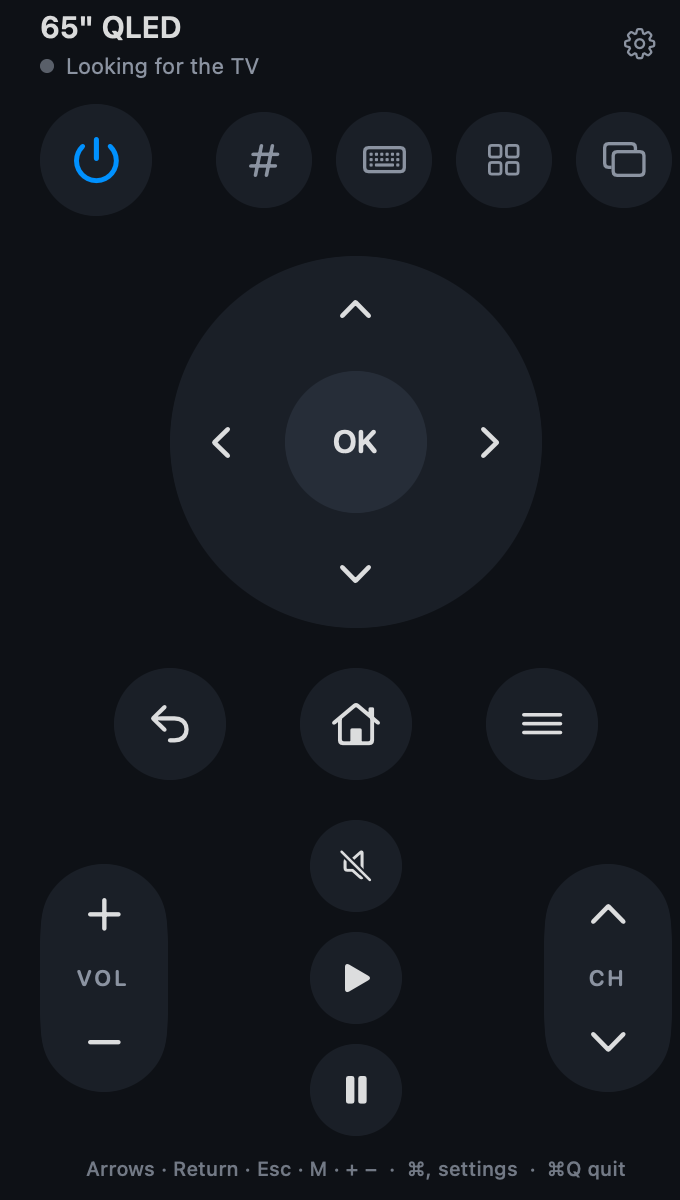
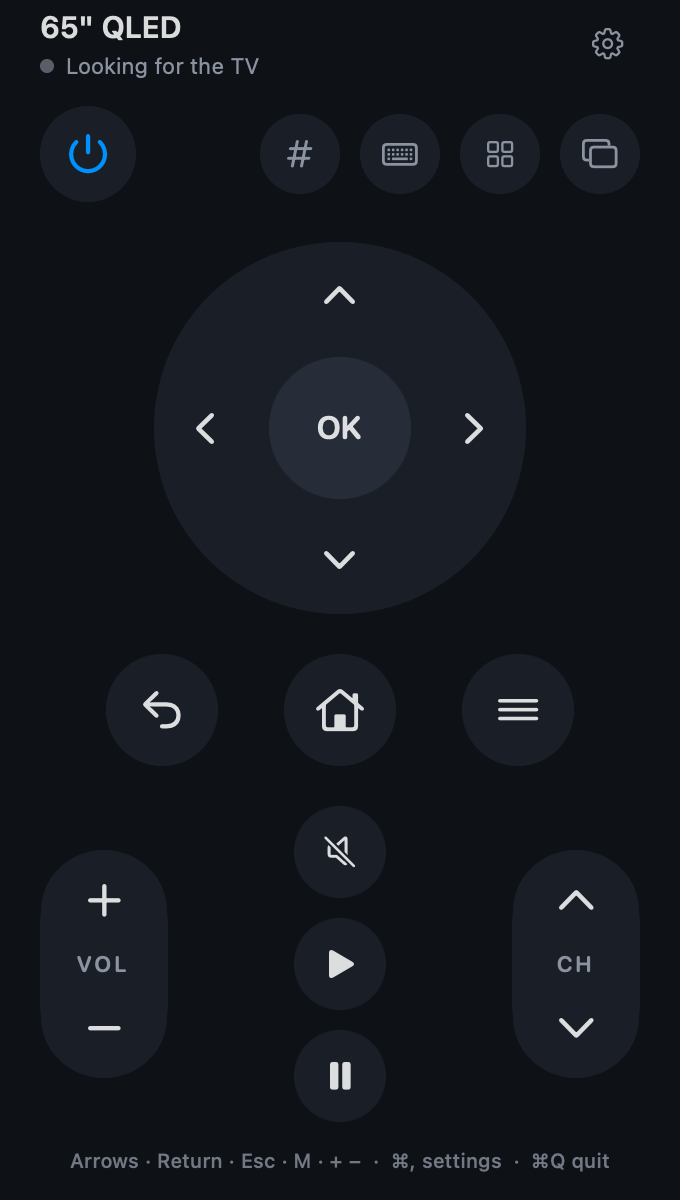
Fit the Mac remote's top row inside the menu bar popover
The popover is 340 pt wide. The top row's five buttons needed 308 pt
plus spacing, more than the 300 pt left after the side padding, so the
whole column grew past the window, shifted right and clipped the Source
button and the channel rocker. On the Mac the top row now uses smaller
buttons and tighter spacing, which takes 258 pt. The column also gets
exactly the window's width, so anything too wide would stay centered.

Checked by measuring renders: every row has equal left and right
margins on the Mac (20 pt), and the iPhone layout is unchanged (24 pt).

diff --git a/Clicker/UI/RemoteView.swift b/Clicker/UI/RemoteView.swift
@@ -26,10 +26,20 @@ struct RemoteView: View {
         }
     }
 
+    /// Button sizes per platform. The Mac popover is narrower than a phone, and the top row has five
+    /// buttons, so on the Mac they are smaller. Top row width = power + 4 x utility + 5 x spacing, which
+    /// must stay under the width minus both side paddings (Mac: 258 of 300 pt; iPhone SE: 308 of 327 pt).
+    private struct Metrics {
+        let sidePadding: CGFloat
+        let power: CGFloat
+        let utility: CGFloat
+        let topSpacing: CGFloat
+    }
+
     #if os(macOS)
-    private static let sidePadding: CGFloat = 20
+    private static let metrics = Metrics(sidePadding: 20, power: 48, utility: 40, topSpacing: 10)
     #else
-    private static let sidePadding: CGFloat = 24
+    private static let metrics = Metrics(sidePadding: 24, power: 56, utility: 48, topSpacing: 12)
     #endif
 
     var body: some View {
@@ -55,8 +65,8 @@ struct RemoteView: View {
                 #endif
                 Spacer(minLength: 8)
             }
-            .padding(.horizontal, Self.sidePadding)
-            .frame(maxWidth: .infinity, maxHeight: .infinity)
+            .padding(.horizontal, Self.metrics.sidePadding)
+            .frame(width: geometry.size.width, height: geometry.size.height)
         }
         .background(Theme.background.ignoresSafeArea())
         .panel(item: $sheet, title: \Sheet.title) { sheet in
@@ -189,13 +199,13 @@ struct RemoteView: View {
     // MARK: Rows
 
     private var topRow: some View {
-        HStack(spacing: 12) {
+        HStack(spacing: Self.metrics.topSpacing) {
             powerButton
-            Spacer()
-            UtilityCircle(symbol: "number", label: "Numbers") { sheet = .numbers }
-            UtilityCircle(symbol: "keyboard", label: "Keyboard", highlighted: model.remote.tvWantsText) { sheet = .keyboard }
-            UtilityCircle(symbol: "square.grid.2x2", label: "Apps") { sheet = .apps }
-            KeyCircle(key: .source, label: "Source", symbol: "rectangle.on.rectangle", size: 48, tint: Theme.secondary)
+            Spacer(minLength: 0)
+            UtilityCircle(symbol: "number", label: "Numbers", size: Self.metrics.utility) { sheet = .numbers }
+            UtilityCircle(symbol: "keyboard", label: "Keyboard", size: Self.metrics.utility, highlighted: model.remote.tvWantsText) { sheet = .keyboard }
+            UtilityCircle(symbol: "square.grid.2x2", label: "Apps", size: Self.metrics.utility) { sheet = .apps }
+            KeyCircle(key: .source, label: "Source", symbol: "rectangle.on.rectangle", size: Self.metrics.utility, tint: Theme.secondary)
         }
     }
 
@@ -212,11 +222,11 @@ struct RemoteView: View {
                         .controlSize(.small)
                 } else {
                     Image(systemName: "power")
-                        .font(.system(size: 22, weight: .semibold))
+                        .font(.system(size: Self.metrics.power * 0.39, weight: .semibold))
                         .foregroundStyle(model.power == .on ? Color.primary : Color.accentColor)
                 }
             }
-            .frame(width: 56, height: 56)
+            .frame(width: Self.metrics.power, height: Self.metrics.power)
         }
         .accessibilityLabel("Power")
     }
